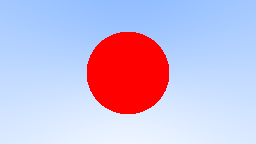
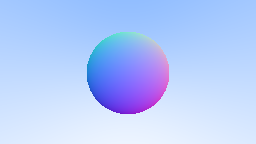
updated to color using normal vector

Changed region(s): [[0.3125, 0.2222, 0.6875, 0.8056]]

diff --git a/src/main.rs b/src/main.rs
@@ -30,19 +30,28 @@ struct Args {
 
 
 
-fn hit_sphere(center: Point3, radius: f64, r: &Ray) -> bool {
+fn hit_sphere(center: Point3, radius: f64, r: &Ray) -> f64 {
     let oc = r.origin() - center;
     let a = r.direction().dot(r.direction());
     let b = 2.0 * oc.dot(r.direction());
     let c = oc.dot(oc) - radius * radius;
     let discriminant = b * b - 4.0 * a * c;
-    discriminant > 0.0
+
+    if discriminant < 0.0 {
+        -1.0
+    } else {
+        (-b - discriminant.sqrt()) / (2.0 * a)
+    }
 }
 
 
 fn ray_color(r: &Ray) -> Color {
-    if hit_sphere(Point3::new(0.0, 0.0, -1.0), 0.5, r) {
-        return Color::new(1.0, 0.0, 0.0);
+    let t = hit_sphere(Point3::new(0.0, 0.0, -1.0), 0.5, r);
+
+    if t > 0.0 {
+        // color according to normal vector direction
+        let n = (r.at(t) - Point3::new(0.0, 0.0, -1.0)).normalized();
+        return 0.5 * Color::new(n.x() + 1.0, n.y() + 1.0, n.z() + 1.0);
     }
 
     let unit_direction = r.direction().normalized();
